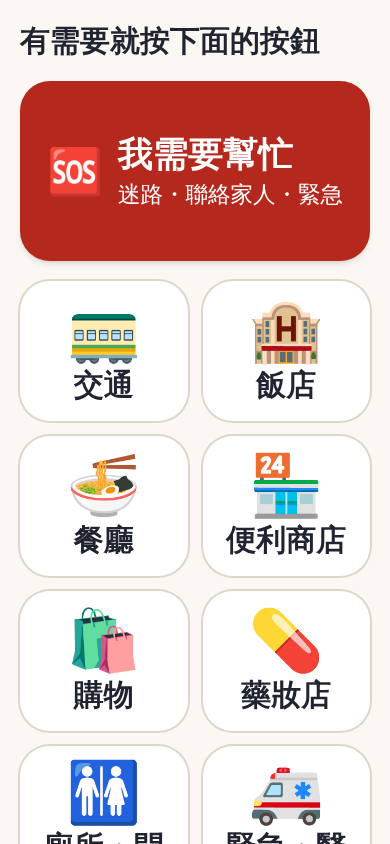
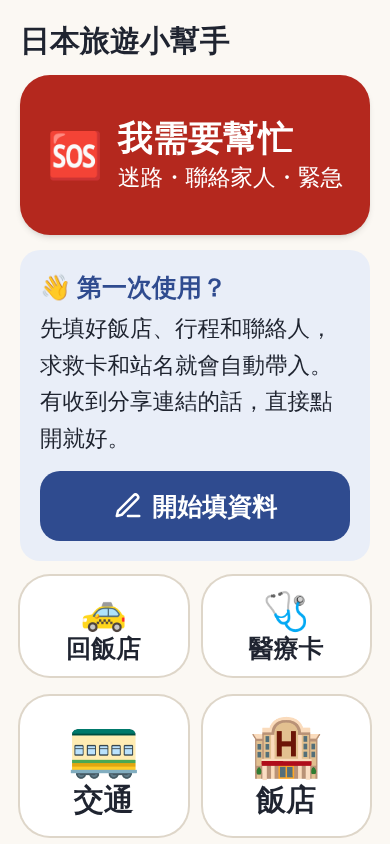
Refresh screenshots and docs for the UX redesign
Home shortcuts stack icon over label so 特大 text no longer wraps them.
The screenshot script follows the new flows (phrase detail, rescue
sheet, setup) and the spec records what each issue changed.

Claude-Session: https://claude.ai/code/session_01FL5DYQMe9ZWzkevjtD88Bj

diff --git a/src/ui/home.ts b/src/ui/home.ts
@@ -7,7 +7,7 @@ import { pickPlace } from "./scene";
 const TILE =
   "flex min-h-28 flex-col items-center justify-center gap-1 rounded-3xl bg-card px-2 py-3 text-center text-2xl font-bold text-ink shadow-sm ring-2 ring-hair transition active:scale-95";
 const SHORTCUT =
-  "flex min-h-20 items-center justify-center gap-2 rounded-3xl bg-card px-2 py-2 text-xl font-bold leading-tight text-ink shadow-sm ring-2 ring-hair transition active:scale-95";
+  "flex min-h-20 flex-col items-center justify-center rounded-3xl bg-card px-2 py-2 text-xl font-bold leading-tight text-ink shadow-sm ring-2 ring-hair transition active:scale-95";
 
 /** One short line: the app greets by name when it has one. */
 export function greeting(profile: Profile): string {

diff --git a/docs/spec.md b/docs/spec.md
@@ -503,3 +503,17 @@ docs/spec.md
 | iOS 主畫面 App 與 Safari 不共用儲存 | 先不處理 |
 | 出生年 | 放進醫療卡與分享連結 |
 | 語言 | 華語（台灣用語），不做台語 |
+
+---
+
+## 12. UX 改版（issues #1–#7）
+
+| Issue | 改了什麼 |
+|---|---|
+| #1 首頁 | 求救鈕下方緊接「回飯店」「醫療卡」兩個快捷鍵；有當天行程時顯示「今天要去」，一點就進交通並選好那一站；沒資料時引導卡放在求救鈕下方；問候語改為一行。 |
+| #2 情境頁 | 句子改成精簡清單（中文＋日文預覽），點一列開全螢幕單句詳情（振假名、拼音、播放、慢速、給對方看、給對方點選）；交通依「問路／月台／車票／公車計程車／遺失」分組（`Scene.groups`、`Phrase.group`，內容檢查會驗證）。交通頁高度約從 10,600 px 降到 3,400 px。 |
+| #3 對方說 | 中文放第一行、最大字；日文小字加播放；回答按鈕緊接在下。 |
+| #4 萬用句 | 情境頁底部常駐「🛟 萬用句」，點開為全螢幕清單。 |
+| #5 全螢幕卡片 | 覆蓋層可堆疊（每層一筆編號的 history，返回鍵只關最上層）；頂部工具列有大的「關閉」與給旅客的中文提示。 |
+| #6 求救頁 | 底部固定撥號列（家人／110／119，110 與 119 先確認）；緊急電話分「主要」與「更多電話」；地址改標「住所：」（〒 是郵遞區號記號）。 |
+| #7 設定表單 | 6 段可收合卡片，標題列顯示摘要與 ✓（`sectionSummaries()`）；進度「已填 N／6 段」與「✓ 已儲存」回饋；完成／分享固定在底部。 |

diff --git a/README.md b/README.md
@@ -82,7 +82,7 @@ npm run build    # 型別檢查＋建置到 dist/
 
 ### 截圖檢查
 
-`docs/screenshots/` 是手機尺寸（390×844）的畫面截圖：首頁（淺色／深色／特大字／沒有資料）、求救卡、給對方看（橫拿）、給對方點選、對方說、醫療卡。重新產生：
+`docs/screenshots/` 是手機尺寸（390×844）的畫面截圖：首頁（淺色／深色／特大字／沒有資料）、求救卡、橫拿的放大卡片、交通句子清單與單句詳情、給對方點選（點選前／後）、對方說、萬用句、醫療卡、設定資料。重新產生：
 
 ```bash
 npm run build && npx vite preview --port 4173 &
